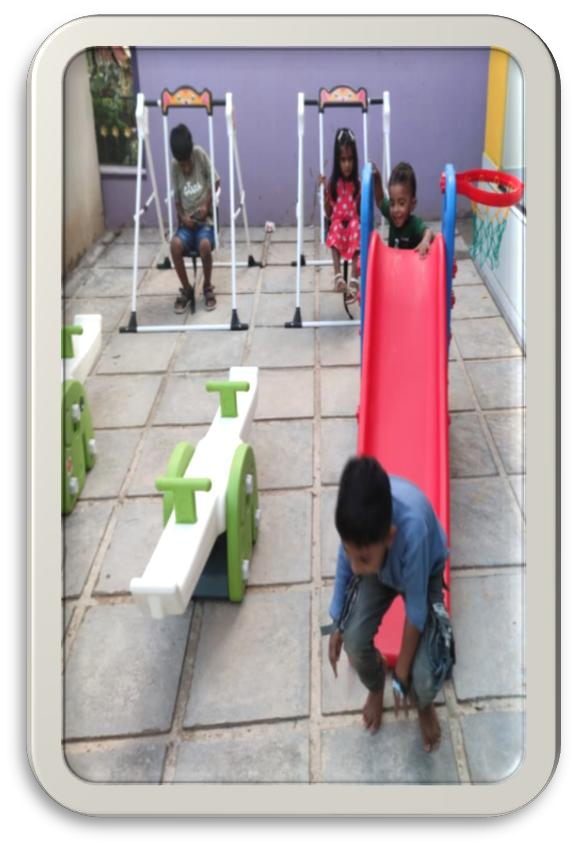
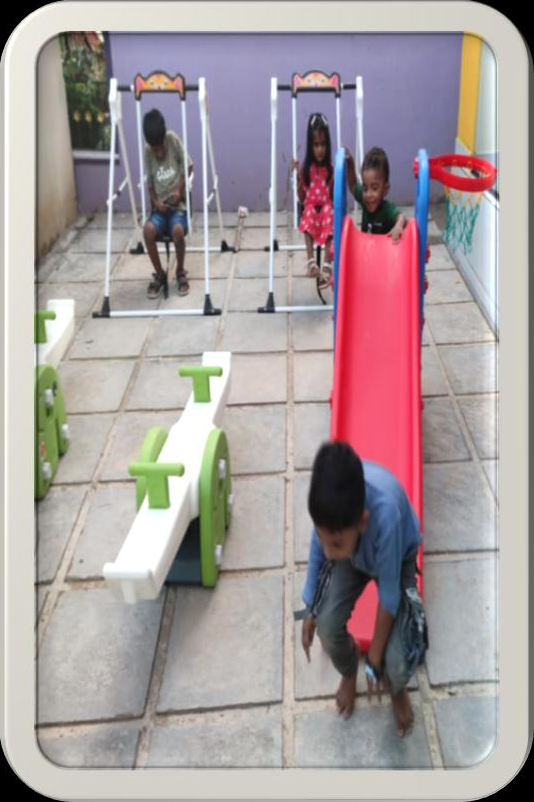
fix(home): ensure gallery images cover fully with no empty spaces and seamless transitions

diff --git a/src/pages/Home/Home.jsx b/src/pages/Home/Home.jsx
@@ -174,34 +174,34 @@ export default function Home() {
         {/* Desktop Wave Ribbon Banner */}
         <svg
           className="band-bg band-bg-desktop"
-          viewBox="0 0 1440 85"
+          viewBox="0 0 1440 68"
           preserveAspectRatio="none"
           aria-hidden="true"
         >
           {/* Dark Green Curved Wave Ribbon Body */}
           <path
             className="band-fill"
-            d="M0,18 C280,22 540,20 780,16 C980,14 1120,18 1260,20 C1350,22 1400,18 1440,16
-               L1440,76
-               C1260,74 1120,60 980,60 C840,60 700,76 540,76 C440,76 340,52 220,46 C140,42 90,48 0,62 Z"
+            d="M0,4 C280,8 540,6 780,2 C980,0 1120,4 1260,6 C1350,8 1400,4 1440,2
+               L1440,62
+               C1260,60 1120,46 980,46 C840,46 700,62 540,62 C440,62 340,38 220,32 C140,28 90,34 0,48 Z"
           />
 
           {/* 3. Top Lime Outline Line */}
           <path
             className="band-line-top"
-            d="M0,18 C280,22 540,20 780,16 C980,14 1120,18 1260,20 C1350,22 1400,18 1440,16"
+            d="M0,4 C280,8 540,6 780,2 C980,0 1120,4 1260,6 C1350,8 1400,4 1440,2"
             vectorEffect="non-scaling-stroke"
           />
 
           {/* 4. Bottom Lime Outline Line */}
           <path
             className="band-line"
-            d="M0,62 C90,48 140,42 220,46 C340,52 440,76 540,76 C700,76 840,60 980,60 C1120,60 1260,74 1440,76"
+            d="M0,48 C90,34 140,28 220,32 C340,38 440,62 540,62 C700,62 840,46 980,46 C1120,46 1260,60 1440,62"
             vectorEffect="non-scaling-stroke"
           />
 
           {/* 5. Botanical Leaf Sprig on Left */}
-          <g className="band-leaf-sprig" transform="translate(48, 20) rotate(-12) scale(0.36)">
+          <g className="band-leaf-sprig" transform="translate(48, 6) rotate(-12) scale(0.36)">
             <path d="M 0 45 C 15 15 50 5 80 15 C 70 45 40 60 5 55 Z" fill="#76B82A" />
             <path d="M 0 45 C 25 30 50 20 80 15" stroke="#064B25" strokeWidth="2.5" fill="none" strokeLinecap="round" />
             <path d="M 12 50 C 25 32 45 22 65 28 C 55 48 35 60 12 55 Z" fill="#DDF0C7" opacity="0.85" />
@@ -247,15 +247,6 @@ export default function Home() {
       {/* 3. 3-PHOTO PANORAMA / CURVED GALLERY (Campus Highlights)       */}
       {/* ============================================================== */}
       <section className="home-gallery-section" aria-label="Campus Highlights">
-        {/* Hidden SVG Definition for Object-Bounding-Box Bottom Arch Curve */}
-        <svg width="0" height="0" style={{ position: 'absolute', pointerEvents: 'none' }} aria-hidden="true">
-          <defs>
-            <clipPath id="gallery-bottom-arch" clipPathUnits="objectBoundingBox">
-              <path d="M 0,0 L 1,0 L 1,1 C 0.90,0.92 0.70,0.88 0.50,0.87 C 0.30,0.85 0.10,0.86 0,1 Z" />
-            </clipPath>
-          </defs>
-        </svg>
-
         <div className="panorama-curved-band">
           {/* Photo 1: Left - Authentic Garden Walkway */}
           <div className="panorama-item item-left">

diff --git a/src/pages/Home/Home.css b/src/pages/Home/Home.css
@@ -32,7 +32,7 @@
 .home-hero {
   position: relative;
   width: 100%;
-  min-height: 590px;
+  min-height: 520px;
   background-color: #FAF7EE;
   padding-top: 100px;
   padding-bottom: 0;
@@ -281,8 +281,8 @@
   position: relative;
   z-index: 10;
   width: 100%;
-  height: clamp(75px, 6.2vw, 95px);
-  margin-top: -36px;
+  height: clamp(68px, 5.2vw, 84px);
+  margin-top: -28px;
   margin-bottom: -16px;
   display: flex;
   align-items: center;
@@ -363,7 +363,7 @@
   z-index: 8;
   width: 100%;
   max-width: 100vw;
-  margin-top: -38px;
+  margin-top: -52px;
   margin-bottom: 25px;
   padding: 0;
   overflow: hidden;
@@ -384,9 +384,7 @@
   height: clamp(220px, 18.5vw, 300px);
   position: relative;
   overflow: hidden;
-  clip-path: url(#gallery-bottom-arch);
-  -webkit-clip-path: url(#gallery-bottom-arch);
-  background-color: #FAF7EE;
+  background-color: transparent;
 }
 
 .panorama-item {
@@ -451,7 +449,8 @@
 /* 4. "A WORLD MADE FOR LITTLE MINDS" - 3 HORIZONTAL PILL CARDS   */
 /* ============================================================== */
 .home-features-section {
-  padding: 30px 0 80px;
+  padding: 30px 0 20px;
+  margin-bottom: 0;
   position: relative;
   z-index: 5;
 }
@@ -728,7 +727,7 @@
     --gallery-slant: clamp(20px, 5.5vw, 42px);
     --gallery-gap: 5px;
     --gallery-overlap: calc(var(--gallery-slant) - var(--gallery-gap));
-    margin-top: 0;
+    margin-top: -20px;
     margin-bottom: 25px;
     width: 100%;
     max-width: 100vw;
@@ -745,11 +744,13 @@
     height: clamp(160px, 36vw, 240px);
     position: relative;
     overflow: hidden;
-    clip-path: url(#gallery-bottom-arch);
-    -webkit-clip-path: url(#gallery-bottom-arch);
-    background-color: #FAF7EE;
+    background-color: transparent;
     gap: 0;
     padding: 0;
+  }
+
+  .home-features-section {
+    padding: 20px 0 15px;
   }
 
   .panorama-item {
